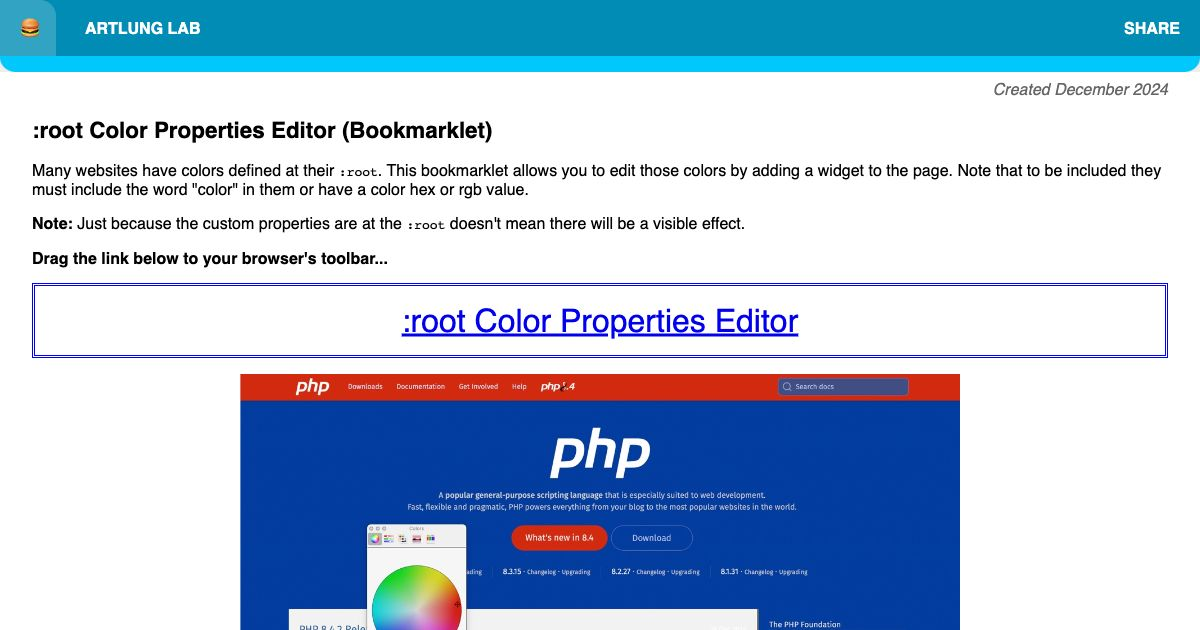
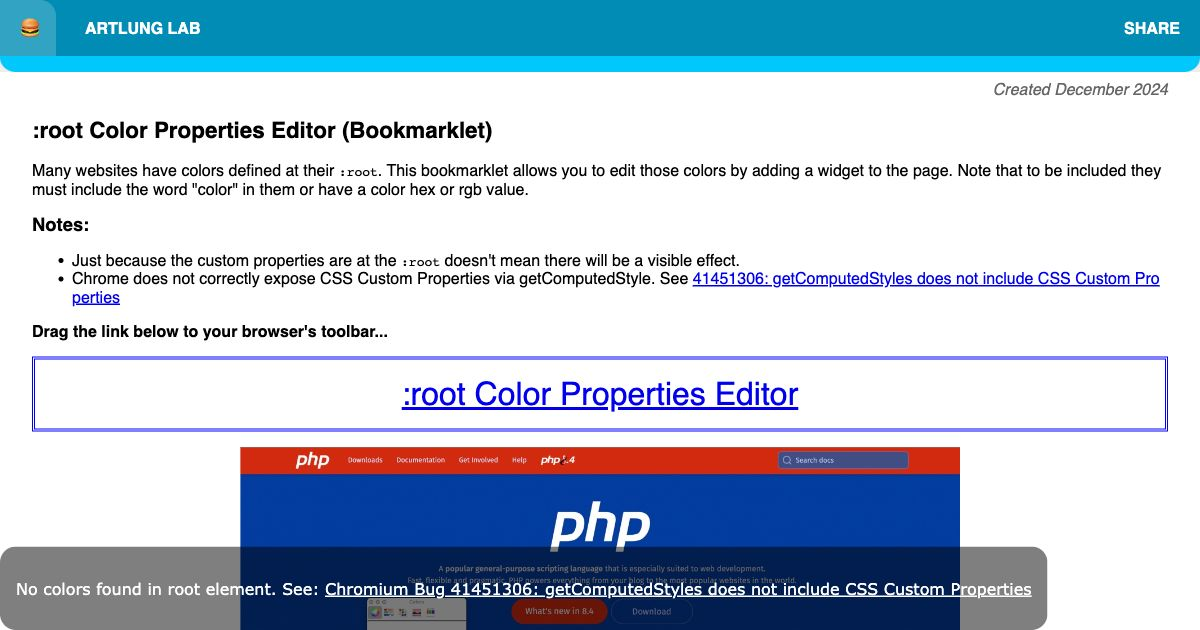
Updated og:images for root editor, added class to help create GitHub issues, added warning about how Chrome can't programmatically find custom properties with link to issue, new unit test

Changed region(s): [[0.0, 0.4825, 0.9867, 1.0], [0.0308, 0.3317, 0.9867, 0.4825]]

diff --git a/web/root-color-properties-editor/root-color-properties-editor.js b/web/root-color-properties-editor/root-color-properties-editor.js
@@ -1,4 +1,4 @@
-let ROOT_COLOR_PROPERTIES_EDITOR = {
+var ROOT_COLOR_PROPERTIES_EDITOR = {
     id: 'color-properties-editor-element',
     new_element_prefix: 'color-properties-editor-',
     // I suppose in theory you could point this at different elements and reinitialize
@@ -40,8 +40,20 @@ let ROOT_COLOR_PROPERTIES_EDITOR = {
             }
         }
         if (count_found === 0) {
+            var message = 'No colors found in root element. ';
+            if (navigator.userAgent.indexOf('Chrome') !== -1) {
+                var href = 'https://issues.chromium.org/issues/41451306?pli=1';
+                var text = 'Chromium Bug 41451306: getComputedStyles does not include CSS Custom Properties';
+                var a = document.createElement('a');
+                a.href = href;
+                a.textContent = text;
+                a.style.color = '#fff';
+                a.target = '_blank';
+                message += 'See: ';
+                message += a.outerHTML;
+            }
             var noColors = document.createElement('p');
-            noColors.textContent = 'No colors found in root element';
+            noColors.innerHTML = message;
             noColors.style.gridColumn = 'span 2';
             noColors.style.whiteSpace = 'nowrap';
             document.getElementById(ROOT_COLOR_PROPERTIES_EDITOR.id).appendChild(noColors);

diff --git a/classes/GithubIssue.php b/classes/GithubIssue.php
@@ -1,0 +1,86 @@
+<?php
+
+namespace ArtlungLab;
+/**
+ * Class GitHubLink
+ *
+ * @category PHP
+ * @package  ArtLung
+ * @author   Joe Crawford <joe@artlung.com>
+ * @license  GPL 2.0+ - http://www.gnu.org/licenses/old-licenses/gpl-2.0.html
+ * @version  Release: 1.0
+ * @link     https://artlung.com/
+ * @since    2024-12-03
+ */
+class GithubIssue
+{
+
+    const ISSUE_URL = "https://github.com/artlung/lab.artlung.com/issues/new";
+
+    /**
+     * Build a GitHub Issue URL from an array
+     *
+     * @param array{title: string, body: string,labels: string|array,milestone: string,assignees: string|array,projects: string,template: string,url: string } $options
+     *
+     * @return string
+     * @throws \Exception
+     * @see    https://docs.github.com/en/issues/tracking-your-work-with-issues/using-issues/creating-an-issue#creating-an-issue-from-a-url-query
+     */
+    public static function getLink(array $options): string
+    {
+
+        return self::ISSUE_URL . "?" . self::_httpBuildQuery($options);
+    }
+
+
+    /**
+     * Build a query string from an array
+     *
+     * @param array{title: string, body: string,labels: string|array,milestone: string,assignees: string|array,projects: string,template: string,url: string } $array
+     *
+     * @return string
+     * @throws \Exception
+     * @see    https://docs.github.com/en/issues/tracking-your-work-with-issues/using-issues/creating-an-issue#creating-an-issue-from-a-url-query
+     */
+    private static function _httpBuildQuery(array $array): string
+    {
+        $allowed_params_and_types = [
+            'title' => 'string',
+            'body' => 'string',
+            'labels' => ['string', 'array'],
+            'milestone' => 'string',
+            'assignees' => ['string', 'array'],
+            'projects' => 'string',
+            'template' => 'string',
+            'url' => 'string',
+        ];
+
+        if (array_key_exists('url', $array)) {
+            $array['body'] .= "\n\n" . $array['url'];
+        }
+
+
+        foreach ($array as $key => $value) {
+            if (!array_key_exists($key, $allowed_params_and_types)) {
+                throw new \Exception("Invalid key: $key");
+            }
+            $type = $allowed_params_and_types[$key];
+            if (is_array($type)) {
+                if (!in_array(gettype($value), $type)) {
+                    throw new \Exception("Invalid type for $key");
+                }
+                if (gettype($value) === 'array') {
+                    $array[$key] = implode(',', $value);
+                }
+            } else {
+                if (gettype($value) !== $type) {
+                    throw new \Exception("Invalid type for $key");
+                }
+            }
+        }
+
+
+        // // https://docs.github.com/en/issues/tracking-your-work-with-issues/using-issues/creating-an-issue#creating-an-issue-from-a-url-query
+        return http_build_query($array);
+    }
+}

diff --git a/web/root-color-properties-editor/root-color-properties-editor.php b/web/root-color-properties-editor/root-color-properties-editor.php
@@ -13,10 +13,19 @@ $lab->printHeader(':root Color Properties Editor (Bookmarklet)');
     they must include the word "color" in them or have a color hex or rgb value.
 </p>
 
-    <p><b>Note:</b>
+    <h2>Notes:</h2>
+<ul>
+    <li>
         Just because the custom properties are at the <code>:root</code> doesn't mean
-    there will be a visible effect.
-</p>
+        there will be a visible effect.
+    </li>
+    <li>
+        Chrome does not correctly expose CSS Custom Properties via getComputedStyle.
+        See <a href="https://issues.chromium.org/issues/41451306?pli=1">41451306: getComputedStyles does not include CSS Custom Properties</a>
+    </li>
+</ul>
+
+    </p>
 
 <p>
     <strong>Drag the link below to your browser's toolbar...</strong>
@@ -27,7 +36,7 @@ $lab->printHeader(':root Color Properties Editor (Bookmarklet)');
 $javascript = file_get_contents('root-color-properties-editor.js');
 $bookmarklet_javascript = ArtlungLab\Bookmarklet::javascriptToBookmarklet($javascript);
 
-  printf('<a href="javascript:%s">:root Color Properties Editor</a>', $bookmarklet_javascript);
+  printf('<a href="javascript:%s" class="bookmarklet">:root Color Properties Editor</a>', $bookmarklet_javascript);
 ?>
 
 </div>

diff --git a/classes/Lab.php b/classes/Lab.php
@@ -320,6 +320,15 @@ HTML;
         } else {
             $comments_code = '';
         }
+        $report_issue_url = GithubIssue::getLink(
+            [
+            'title' => 'Issue: ' . $slug,
+            'body' => "Please describe the issue you encountered",
+            'labels' => ['issue', $slug],
+            'url' => $protocol . '://' . $_SERVER['HTTP_HOST'] . $_SERVER['REQUEST_URI']
+            ]
+        );
+
         return <<<HTML
 {$code_output}
 </article>
@@ -327,6 +336,7 @@ HTML;
 <footer>
 	<span>&copy; 1996-{$copyrightYear}</span>
 	<a href="https://github.com/artlung/lab.artlung.com" target="_blank">GitHub</a>
+	<a href="{$report_issue_url}" target="_blank">Report Issue</a>
 	<a href="https://lab.artlung.com/feed.xml" style="color: orange">Feed</a>
     <a href="https://artlung.com/" class="joe" target="_blank">Joe Crawford</a>
 </footer>

diff --git a/tests/GithubIssueTest.php b/tests/GithubIssueTest.php
@@ -1,0 +1,27 @@
+<?php
+
+
+use ArtlungLab\GithubIssue;
+use PHPUnit\Framework\TestCase;
+
+class GithubIssueTest extends TestCase
+{
+    public function testGithubIssue()
+    {
+        $issue = new GithubIssue();
+        $this->assertInstanceOf(GithubIssue::class, $issue);
+    }
+
+    public function testGetLink()
+    {
+        $options = [
+            'title' => '404: /foo/',
+            'body' => "I got a not found error",
+            'labels' => ['bug', '404'],
+            'url' => 'https://lab.artlung.com/foo/'
+        ];
+        $expected = 'https://github.com/artlung/lab.artlung.com/issues/new?title=404%3A+%2Ffoo%2F&body=I+got+a+not+found+error%0A%0Ahttps%3A%2F%2Flab.artlung.com%2Ffoo%2F&labels=bug%2C404&url=https%3A%2F%2Flab.artlung.com%2Ffoo%2F';
+        $this->assertEquals($expected, GithubIssue::getLink($options));
+    }
+
+}

diff --git a/web/404.php b/web/404.php
@@ -34,14 +34,16 @@ $lab->printHeader('404');
     <p>
 <?php
 
-// https://docs.github.com/en/issues/tracking-your-work-with-issues/using-issues/creating-an-issue#creating-an-issue-from-a-url-query
-$issue_url = "https://github.com/artlung/lab.artlung.com/issues/new" . "?" . http_build_query(
+$issue_url = \ArtlungLab\GithubIssue::getLink(
     [
-        'title' => "404: $requestedUrl",
-        'body' => "I got a 404 error on https://lab.artlung.com$requestedUrl",
-        'labels' => 'bug'
+    'title' => '404: ' . $requestedUrl,
+    'body' => "I got a not found error",
+    'labels' => ['bug', '404'],
+    'url' => 'https://lab.artlung.com' . $requestedUrl
     ]
 );
+
+
 printf(
     'If it persists, please <a href="%s">file an issue on GitHub</a>.',
     $issue_url

diff --git a/web/home/home.php b/web/home/home.php
@@ -23,14 +23,15 @@ $lab->printHeader(
 
         <?php
 
-        $params = [
+        $github_feature_request_url = \ArtlungLab\GithubIssue::getLink(
+            [
             'title' => 'Feature Request: ',
             'body' => 'I visited ArtLung Lab. My suggestion is...',
-            'labels' => 'enhancement'
-        ];
+            'labels' => 'enhancement',
+            'url' => 'https://lab.artlung.com/'
+            ]
+        );
 
-        $github_feature_request_url = 'https://github.com/artlung/lab.artlung.com/issues/new' . '?' .
-            http_build_query($params);
 
         printf(
             '<a href="%s">File an issue</a>',
